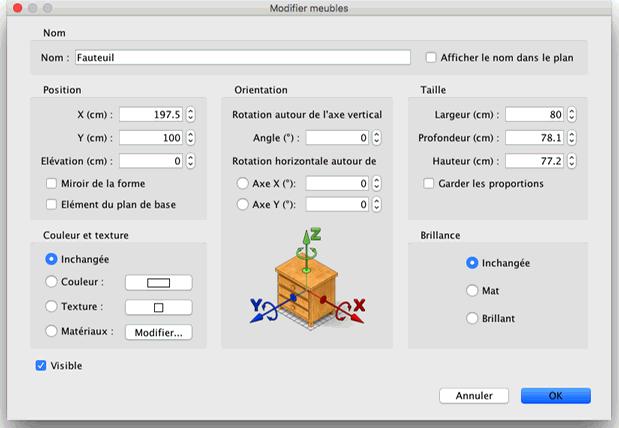
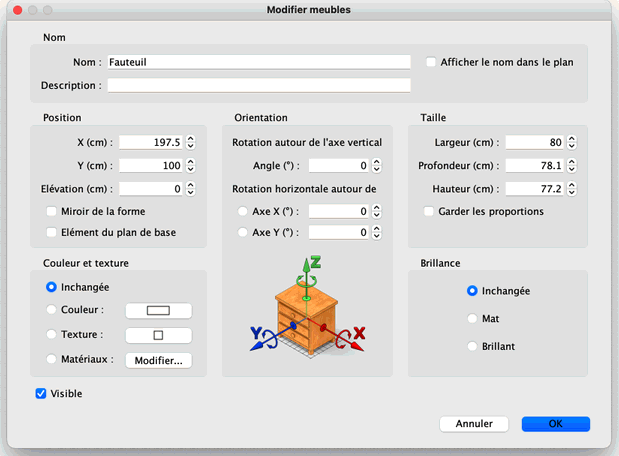
Updated help for description field
git-svn-id: https://svn.code.sf.net/p/sweethome3d/code/trunk@8444 03e323e1-6c6c-46a5-9f71-c4ce5d8c6204

diff --git a/com/eteks/sweethome3d/viewcontroller/resources/help/en/editingFurniture.html b/com/eteks/sweethome3d/viewcontroller/resources/help/en/editingFurniture.html
@@ -109,7 +109,7 @@
 	  <p>A piece of furniture  may also be  edited thanks to its pane, by double-clicking on that piece in 
 	    the home plan or furniture list, or by choosing <i>Furniture &gt; Modify...</i> after selecting it.</p>
 	    <p align="center"><img src="images/editingFurniture.png" alt="Modify furniture"></p>
-	    <p>In the furniture pane, you may change its name, the abscissa (X) and 
+	    <p>In the furniture pane, you may change its name, its description, the abscissa (X) and 
           the ordinate (Y) of its center, the elevation of its bottom from the 
           floor, its width, its depth, its height, its color or its texture, its 
           shininess, its visibility, its rotation angles, whether its name should 
@@ -124,7 +124,9 @@
 	    <p>The <i>Furniture materials</i> pane displays the list of materials you can edit, and a 3D preview 
 	    of the color and texture changes you made, because materials may not always have  some clear or translated names 
 	    (like <i>bone2</i> instead of <i>mattress</i> or <i>flyellow</i> instead of <i>frame</i> in the previous figure). 
-      When necessary, you can also  rotate the object in the 3D preview with the mouse and  modify more than a material at the same time after selecting them in the list.</p></td>
+	    When necessary, you may modify more than a material at the same time after selecting them in the list and 
+	    rotate the piece of furniture with a mouse drag on the background of the 3D preview.
+	    If you click on a part of the piece in the preview, its matching material will be selected in the list.</p></td>
 	</tr>
 </table>
 <div id="taskbox">
